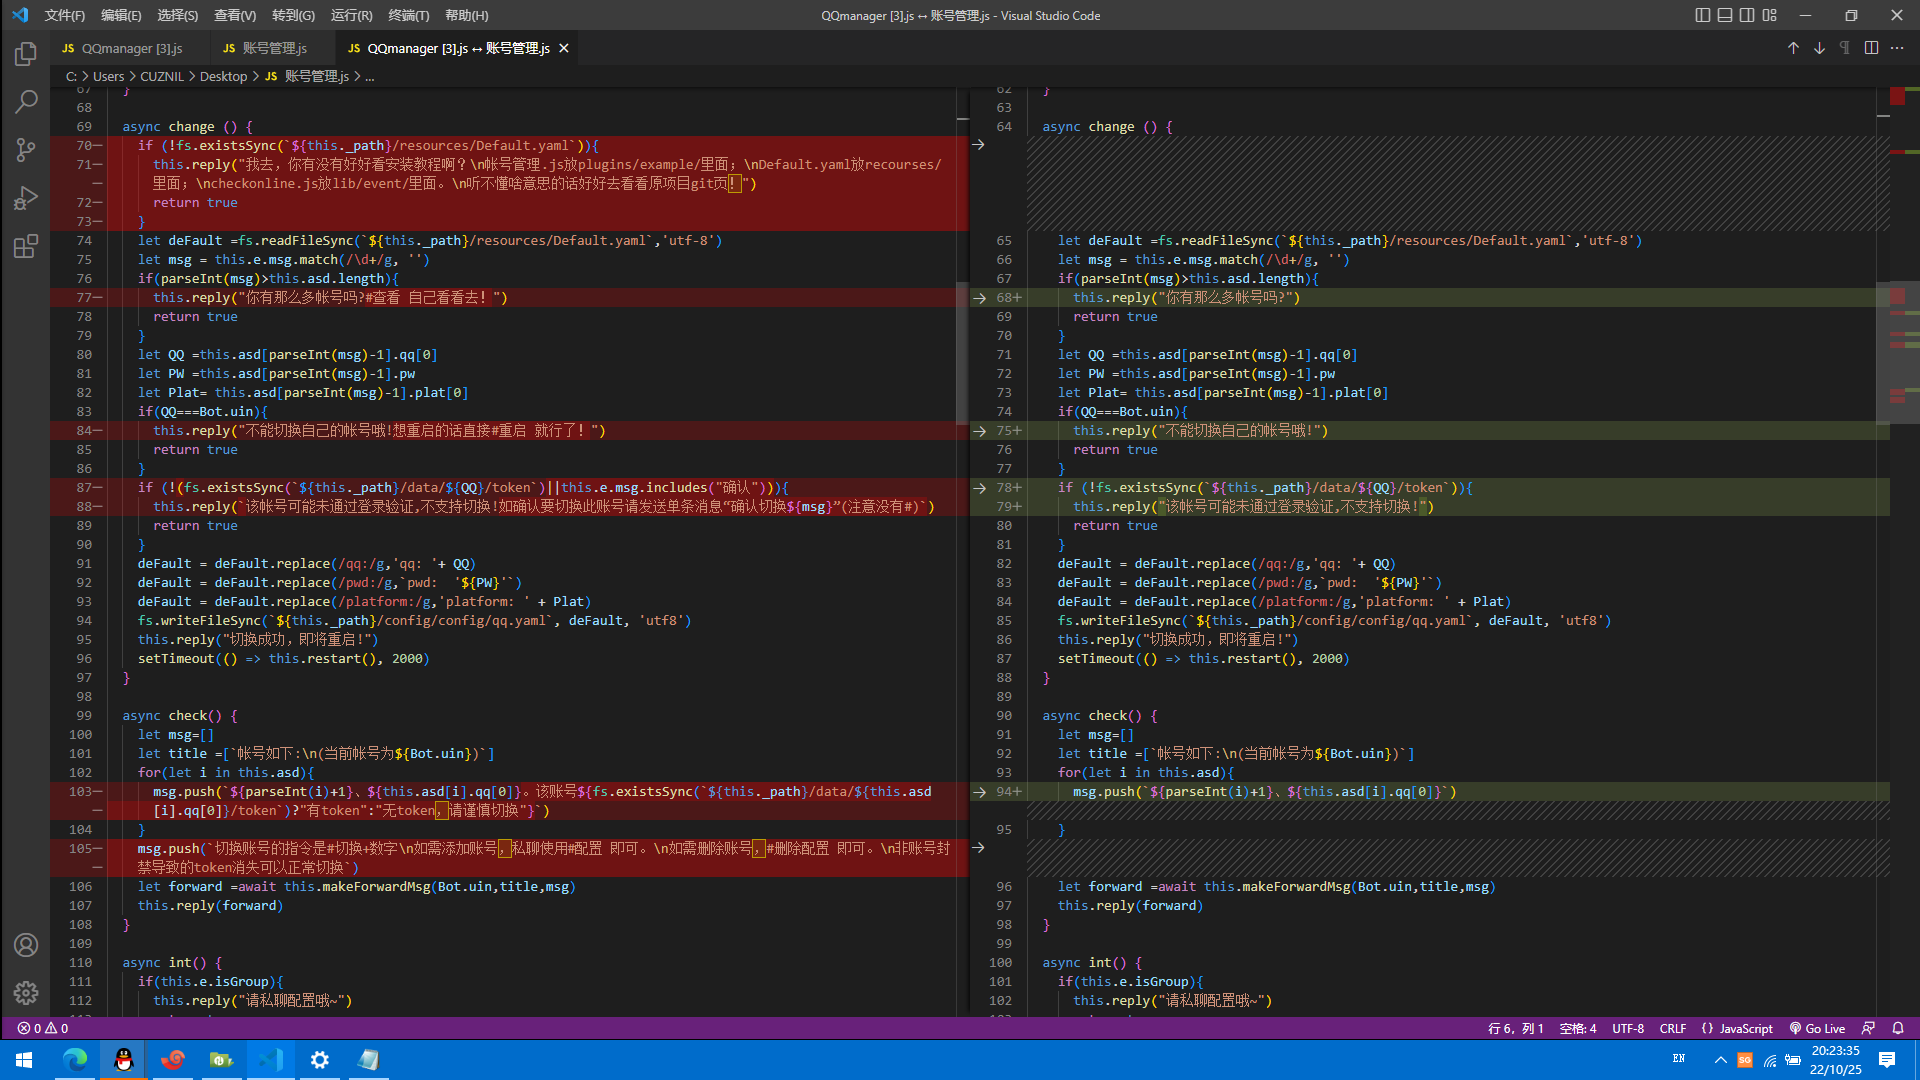
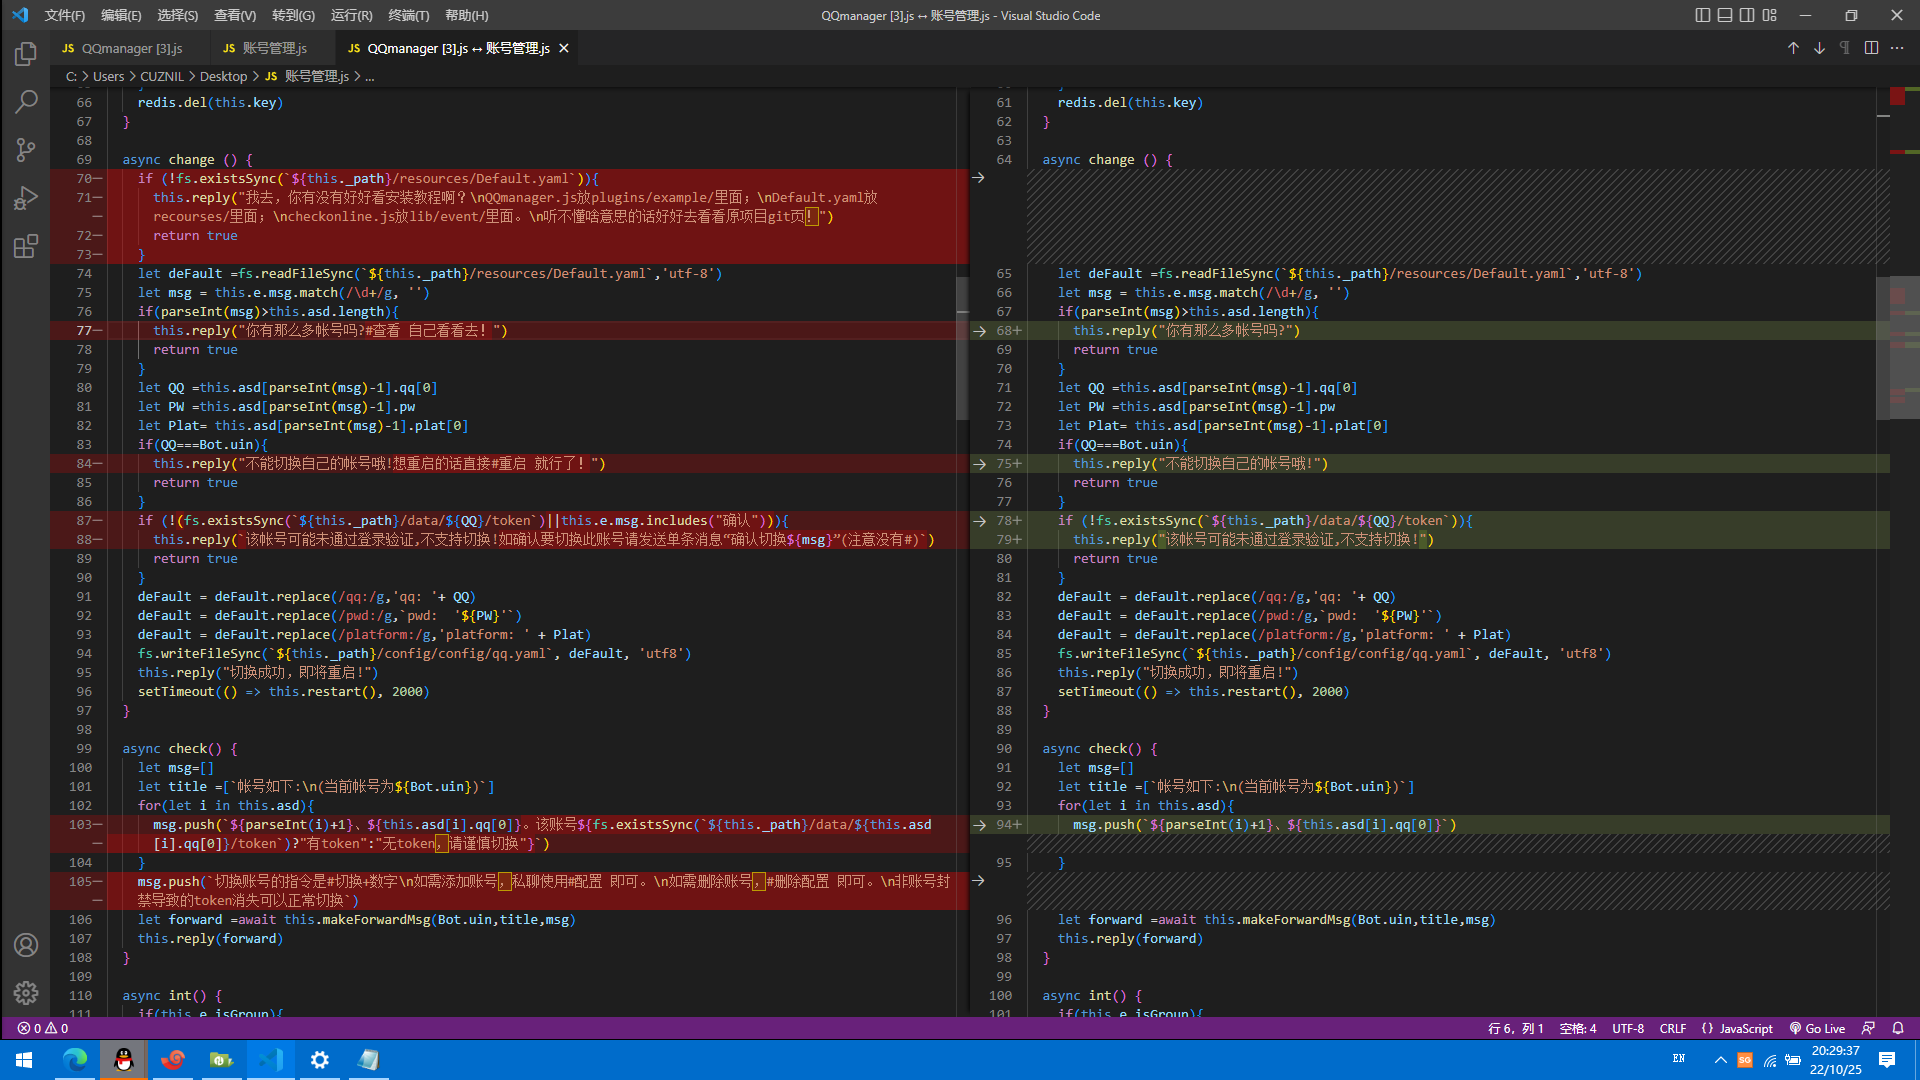
update README.md.

Changed region(s): [[0.0, 0.0917, 1.0, 1.0]]

diff --git a/README.md b/README.md
@@ -48,10 +48,14 @@
 
 ![改动](doc-use/Change.png)
 
-##### 如果你会啃代码，你看这个图应该就知道都改了啥了。下面给不会啃的大概介绍下：
+##### 如果你会啃代码，你看这个图应该就知道都改了啥了。下面给不会啃或者懒得啃的大概介绍下：
 
 左侧行数：
 - 70-73：如果没有正确安装插件，会报错提示搭建者去正确安装
+- 77：提示搭建者使用`#查看`来确认目前配置的账号
+- 84：提示搭建者使用`#重启`代替原地tp
+- 87-88：当账号没有token时警告搭建者强行切换可能出错，并引导强制切换指令
+- 103,105：优化`#查看`指令下的显示，现在会提示有无token以及常用指令
 
 ### 遇到问题/需要联系我/需要使用Bot
 
